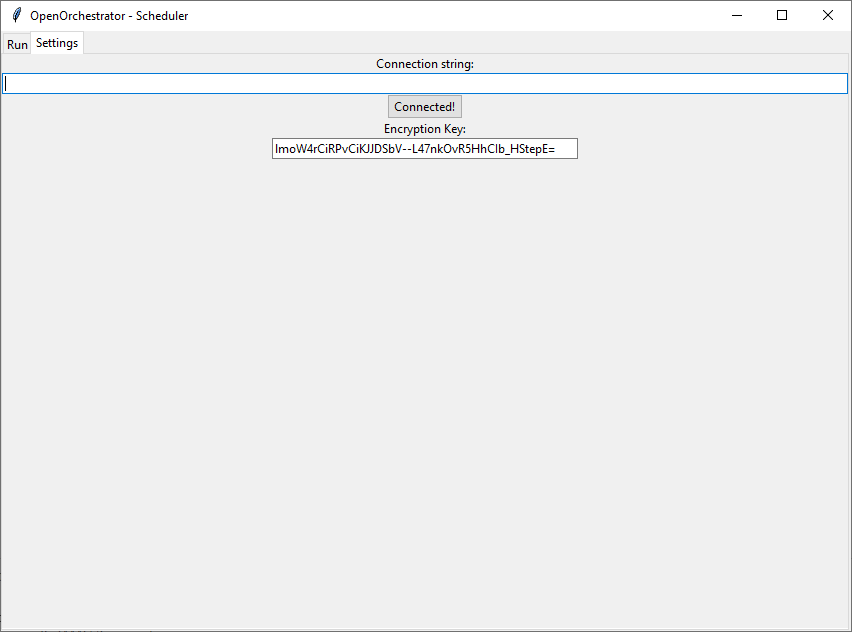
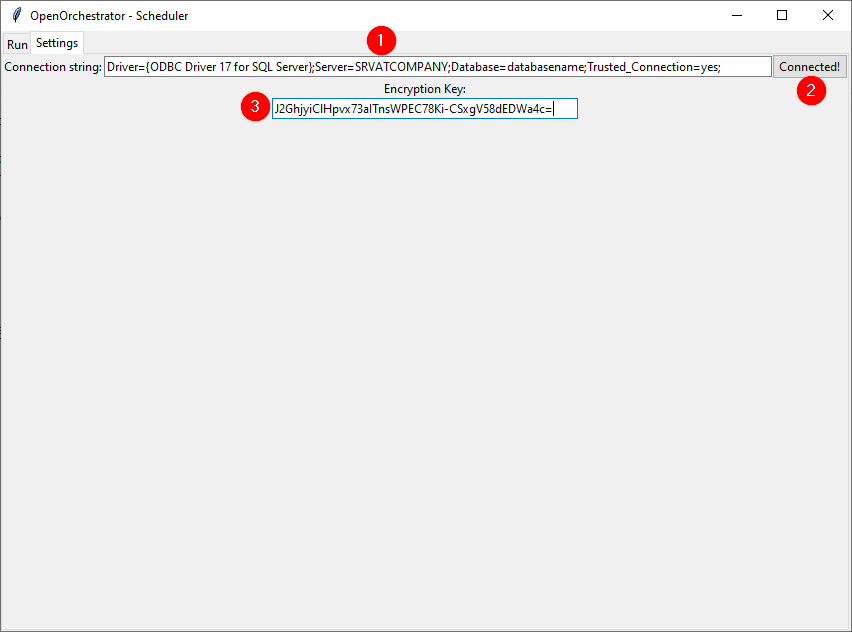
Scheduler page started

Changed region(s): [[0.0, 0.0301, 1.0, 0.2706]]

diff --git a/docs/scheduler.md b/docs/scheduler.md
@@ -3,3 +3,44 @@ layout: default
 title: Scheduler
 nav_order: 3
 ---
+
+# Scheduler
+
+The Scheduler is run on the worker machines where the automation processes should run.
+
+To run Scheduler make sure OpenOrchestrator is installed and run the following command:
+
+```
+python -m OpenOrchestrator -s
+```
+
+## Settings
+
+The first step when opening Scheduler is to go to the settings tab
+and establish a connection to the central database.
+
+1. Enter the connection string to the central database here.
+2. Click connect to connect using the given connection string. The button will change its text to 'Connected!'
+if the connection was successful.
+3. Enter the encryption key to be used to encrypt credential passwords.
+
+**Tip:** Both values can be filled automatically if 'OpenOrchestratorConnString' and 'OpenOrchestratorKey' are
+defined in the environment variables.
+
+![settings](illustrations\scheduler\settings.png)
+
+## Run
+
+When the connection has been established and the encryption key has been set it's
+a simple matter of going to the Run tab and press 'Run'.
+
+![run](illustrations/scheduler/run.png)
+
+When running the Scheduler will run a simple loop every 6 seconds:
+1. Check heartbeats of running processes.
+2. Check if any triggers in the database should run.
+3. Repeat.
+
+When you want the Scheduler loop to stop press 'Pause'.
+The Scheduler will continue too check heartbeats of running processes
+but it will no longer check the triggers in the database.

diff --git a/docs/orchestrator.md b/docs/orchestrator.md
@@ -29,6 +29,9 @@ when Orchestrator is closed.
 5. The first time OpenOrchestrator is used you can press 'Initialize Database' to create all the needed
 tables in the central database.
 
+**Tip:** Both values can be filled automatically if 'OpenOrchestratorConnString' and 'OpenOrchestratorKey' are
+defined in the environment variables.
+
 ![settings](illustrations\orchestrator\settings.png)
 
 ## Triggers
@@ -111,11 +114,13 @@ The 'Logs' tab is where logs created in automation processes are viewed.
 
 ![logs](illustrations/orchestrator/logs.png)
 
-The logs are shown in cronological order. 
+The logs are shown in chronological order. 
 
 The logs can be filtered on time, level and process name.
 
-To view log messages that don't fit in the table double click the log to open it in a pop-up window (WIP).
+To view log messages that don't fit in the table double click the log to open it in a pop-up window.
+It's also possible to copy the text to clipboard by pressing ctrl+c when the pop-up is in focus. 
+
 
 ## Constants
 
